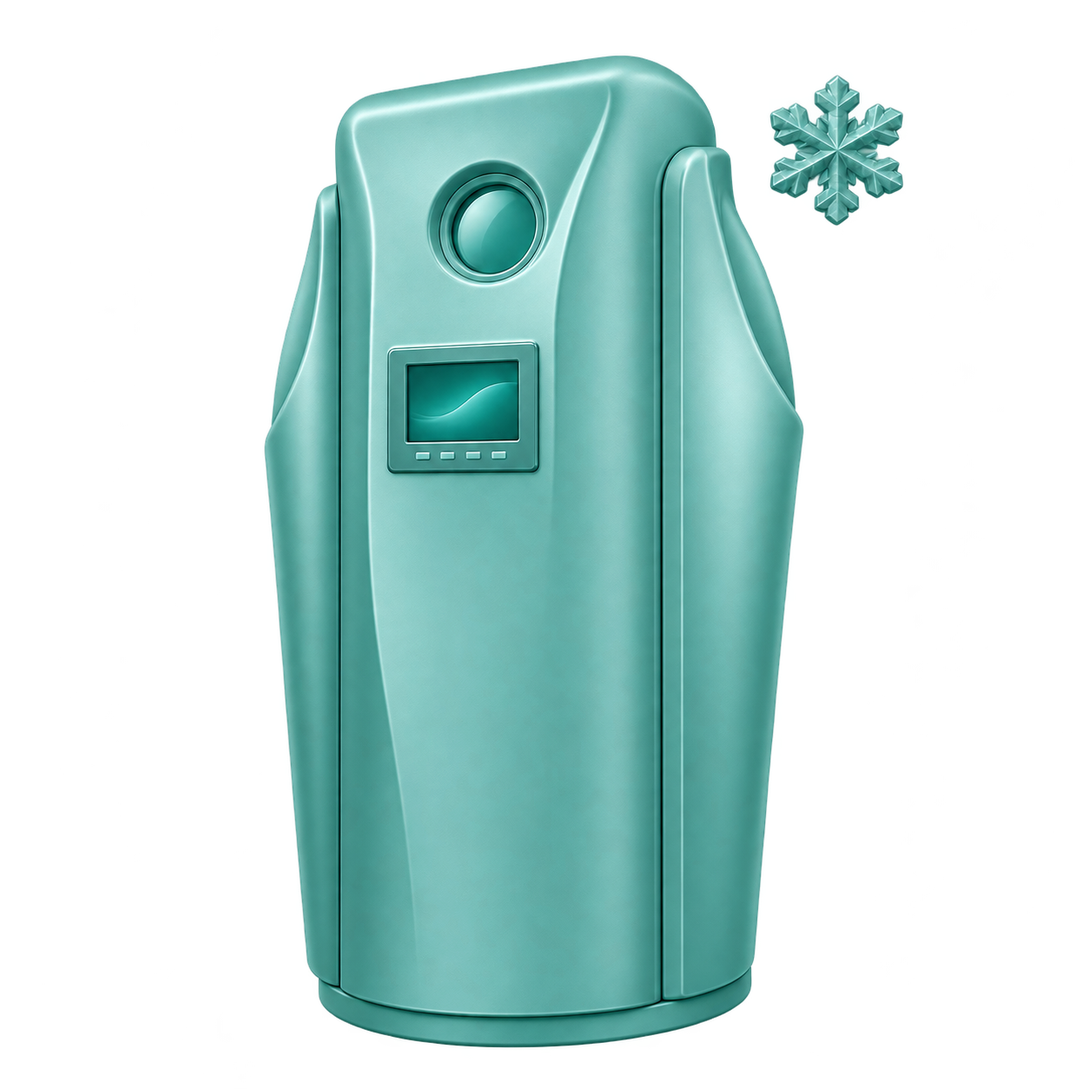
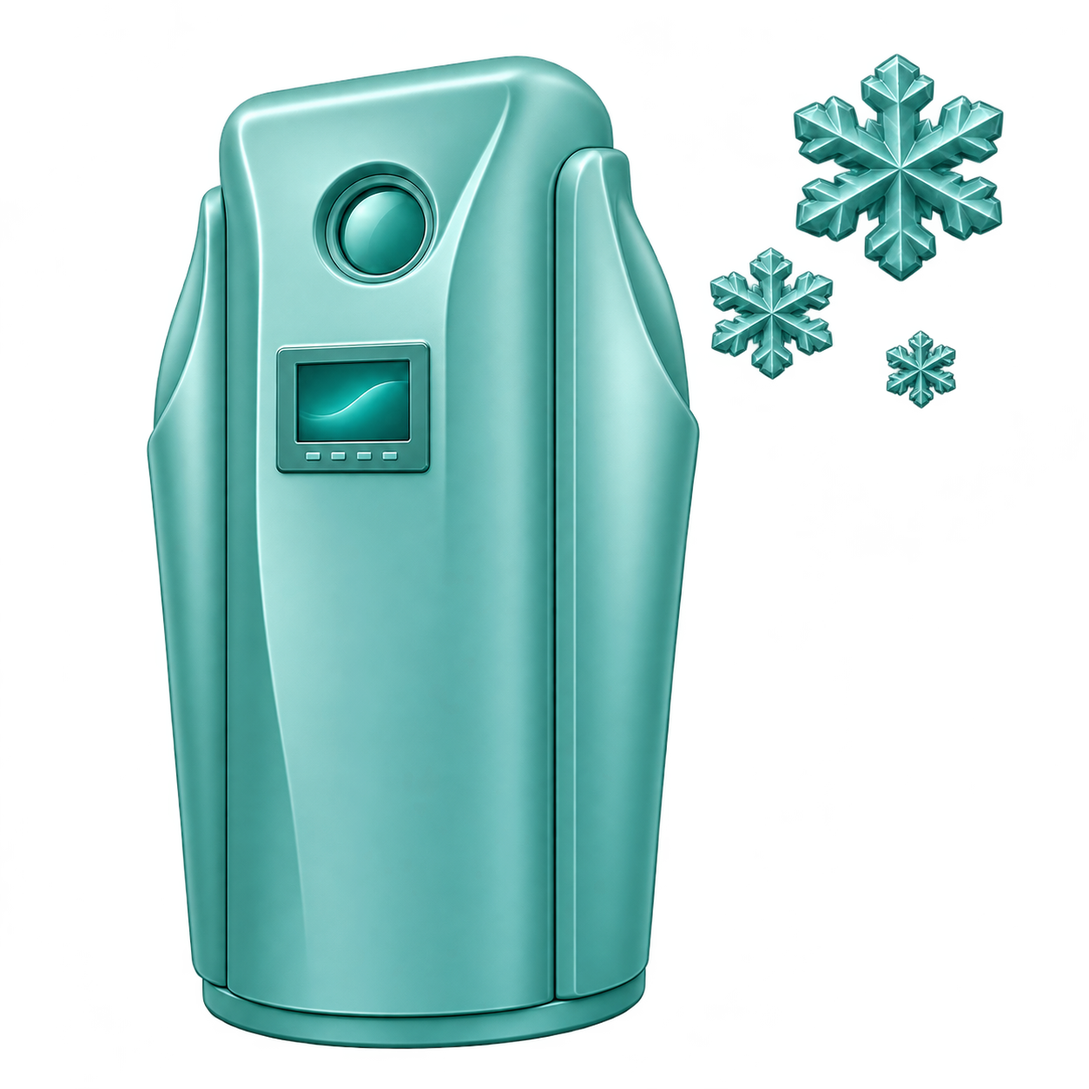
Обновление справочника: 2026-11-21 12:21

diff --git a/index.html b/index.html
@@ -1,1 +1,1 @@
-<!doctype html><html lang="ru"><head><meta charset="utf-8"><meta name="viewport" content="width=device-width,initial-scale=1"><title>Справочник услуг</title><link rel="stylesheet" href="assets/css/style.css"><link rel="icon" type="image/svg+xml" href="assets/brand/favicon.svg"><link rel="icon" type="image/png" sizes="32x32" href="assets/brand/favicon-32.png"><link rel="apple-touch-icon" sizes="180x180" href="assets/brand/apple-touch-icon.png"></head><body><a class="skip" href="#main">Перейти к содержанию</a><div class="shell"><header class="brand"><a href="index.html" aria-label="На главную"><img class="clinic-logo" src="assets/brand/cryo-clinic-official.svg" alt="КРИО КЛИНИК — Энергия и иммунитет"></a><div class="resort"><img src="assets/brand/altay-restart.jpg" alt="ALTAY RESTART — премиальный горнолыжный курорт"></div></header><main id="main"><section class="intro"><h1>Справочник услуг</h1><p class="lead">Для сотрудников всех подразделений курорта «Алтай Рестарт»: консультирование гостей и презентация услуг клиники.</p></section><section class="catalog" aria-label="Каталог процедур"><form class="search" role="search"><label for="search">Найти процедуру или аппарат</label><div class="search-field"><svg class="search-icon" viewBox="0 0 24 24" aria-hidden="true"><circle cx="10.5" cy="10.5" r="6.5"/><path d="m16 16 4.5 4.5"/></svg><input id="search" type="search" placeholder="Например, криотерапия или ICEQUEEN" autocomplete="off"><button type="button" id="clear" hidden>Сбросить</button></div></form><div class="catalog-tools"><p id="results" role="status" aria-live="polite">Откройте раздел, чтобы увидеть процедуры</p><button id="toggle-all" type="button">Раскрыть все</button></div><div id="categories"><details class="category" id="category-1"><summary><span class="category-icon" aria-hidden="true"><img class="category-art" src="assets/illustrations/cryo-capsule-square-v1.png" alt=""></span><span class="category-title"><strong>Криотерапия</strong><span>Применение низких температур для общего и местного воздействия</span></span><span class="count">3</span><span class="chevron" aria-hidden="true"></span></summary><ul class="procedures"><li data-search="Криотерапия Общая криотерапия ICEQUEEN криокапсула айсквин Криотерапия общая, 2 мин"><a href="procedures/procedure-01-01.html"><span>Общая криотерапия<small>ICEQUEEN</small></span><span class="row-status">В разработке</span></a></li><li data-search="Криотерапия Локальная криотерапия суставов  Криотерапия локальная одного сустава, 10 мин"><a href="procedures/procedure-01-02.html"><span>Локальная криотерапия суставов</span><span class="row-status">В разработке</span></a></li><li data-search="Криотерапия Аппаратный криомассаж  Криомассаж лица аппаратный, 10 мин Криомассаж волосистой части головы аппаратный, 10 мин Криомассаж лица и шеи аппаратный, 10 мин Криомассаж лица, шеи и зоны декольте аппаратный, 20 мин"><a href="procedures/procedure-01-03.html"><span>Аппаратный криомассаж</span><span class="row-status">В разработке</span></a></li></ul></details><details class="category" id="category-3" ><summary><span class="category-icon" aria-hidden="true"><img class="category-art" src="assets/illustrations/immersion-cocoon-transparent-v1.png" alt=""></span><span class="category-title"><strong>Сухая иммёрсия</strong><span>Глубокое расслабление и ощущение невесомости</span></span><span class="count">1</span><span class="chevron" aria-hidden="true"></span></summary><ul class="procedures"><li data-search="Сухая иммёрсия Сухая иммёрсия  Сухая иммёрсия, 60 мин Сухая иммёрсия, 90 мин"><a href="procedures/procedure-03-01.html"><span>Сухая иммёрсия</span></a></li></ul></details><details class="category" id="category-4" ><summary><span class="category-icon" aria-hidden="true"><svg class="category-art" viewBox="1090 30 350 300" aria-hidden="true" focusable="false"><image href="assets/illustrations/procedures-3d-transparent-v2.png" width="1448" height="1086"/></svg></span><span class="category-title"><strong>Электромагнитная стимуляция</strong><span>Стимуляция тканей на электромагнитном столе EMW MED</span></span><span class="count">1</span><span class="chevron" aria-hidden="true"></span></summary><ul class="procedures"><li data-search="Электромагнитная стимуляция Глубокая электромагнитная стимуляция EMW MED магнитный стол Глубокая электромагнитная стимуляция тканей на системе EMW MED (1 зона) Глубокая электромагнитная стимуляция тканей на системе EMW MED (2 зоны) Глубокая электромагнитная стимуляция тканей на системе EMW MED (все тело)"><a href="procedures/procedure-04-01.html"><span>Глубокая электромагнитная стимуляция</span><span class="row-status">В разработке</span></a></li></ul></details><details class="category" id="category-2"><summary><span class="category-icon" aria-hidden="true"><img class="category-art" src="assets/illustrations/barochamber-square-v1.png" alt=""></span><span class="category-title"><strong>Гипербарическая оксигенация (барокамера)</strong><span>В кислородной камере O2one</span></span><span class="count">1</span><span class="chevron" aria-hidden="true"></span></summary><ul class="procedures"><li data-search="Барокамера Барокамера O2one-H810 кислород гипербарическая оксигенация Гипербарическая оксигенация в кислородной камере o2one, 30 мин Гипербарическая оксигенация в кислородной камере o2one, 45–60 мин Гипербарическая оксигенация в кислородной камере o2one, 90 мин"><a href="procedures/procedure-02-01.html"><span>Гипербарическая оксигенация (барокамера)</span><span class="row-status">В разработке</span></a></li></ul></details><details class="category" id="category-13"><summary><span class="category-icon" aria-hidden="true"><img class="category-art" src="assets/illustrations/oxyterra-square-v1.png" alt=""></span><span class="category-title"><strong>Интервальная гипоксически-гипероксическая тренировка</strong><span>На аппарате «Окситерра»</span></span><span class="count">1</span><span class="chevron" aria-hidden="true"></span></summary><ul class="procedures"><li data-search="Интервальная гипоксически-гипероксическая тренировка Интервальная гипоксически-гипероксическая тренировка Окситерра ИГГТ дыхание дорожка Маска одноразовая для ИГГТ Интервальная гипоксически-гипероксическая тренировка на аппарате «Окситерра», 60 мин Интервальная гипоксически-гипероксическая тренировка на аппарате «Окситерра» с использованием беговой дорожки, 30-60 мин"><a href="procedures/procedure-02-02.html"><span>Интервальная гипоксически-гипероксическая тренировка<small>«Окситерра»</small></span><span class="row-status">В разработке</span></a></li></ul></details><details class="category" id="category-5"><summary><span class="category-icon" aria-hidden="true"><svg class="category-art" viewBox="15 390 350 270" aria-hidden="true" focusable="false"><image href="assets/illustrations/procedures-3d-transparent-v2.png" width="1448" height="1086"/></svg></span><span class="category-title"><strong>Водолечение и бальнеотерапия</strong><span>Ванны, гидромассаж и водные процедуры</span></span><span class="count">5</span><span class="chevron" aria-hidden="true"></span></summary><ul class="procedures"><li data-search="Водолечение и бальнеотерапия Гидромассажная ванна и добавки  Оздоровительная процедура в гидромассажной ванне, 45 мин Использование добавки для гидромассажной ванны «Прованские травы» Использование добавки для гидромассажной ванны «Кальций» Использование добавки для гидромассажной ванны «Магний» Использование добавки для гидромассажной ванны «Морская соль» Использование добавки для гидромассажной ванны «Живая вода» Использование добавки-концентрата (масла) морского магния «Талассо Магнезиум», 500 мл, 5 мин"><a href="procedures/procedure-05-01.html"><span>Гидромассажная ванна и добавки</span><span class="row-status">В разработке</span></a></li><li data-search="Водолечение и бальнеотерапия Подводный вакуумный массаж  Подводный вакуумный массаж, 10 мин"><a href="procedures/procedure-05-02.html"><span>Подводный вакуумный массаж</span><span class="row-status">В разработке</span></a></li><li data-search="Водолечение и бальнеотерапия Ванна с водородом  Ванна с атомарным водородом в «Живой воде»"><a href="procedures/procedure-05-04.html"><span>Ванна с водородом</span><span class="row-status">В разработке</span></a></li><li data-search="Водолечение и бальнеотерапия Ванна Клеопатры  Ванна Клеопатры (безинъекционная карбокситерапия)"><a href="procedures/procedure-05-05.html"><span>Ванна Клеопатры</span><span class="row-status">В разработке</span></a></li><li data-search="Водолечение и бальнеотерапия Лечебный гидромассаж в «Живой воде»  Гидромассаж лечебный в «Живой воде», 60 мин"><a href="procedures/procedure-05-06.html"><span>Лечебный гидромассаж в «Живой воде»</span><span class="row-status">В разработке</span></a></li></ul></details><details class="category" id="category-14"><summary><span class="category-icon" aria-hidden="true"><img class="category-art" src="assets/illustrations/pant-antlers-square-v1.png" alt=""></span><span class="category-title"><strong>Пантовые ванны</strong><span>«Целебная сила Алтая»</span></span><span class="count">1</span><span class="chevron" aria-hidden="true"></span></summary><ul class="procedures"><li data-search="Водолечение и бальнеотерапия Пантовая ванна «Целебная сила Алтая»  Пантовая ванна «Целебная сила Алтая»"><a href="procedures/procedure-05-03.html"><span>Пантовая ванна «Целебная сила Алтая»</span><span class="row-status">В разработке</span></a></li></ul></details><details class="category" id="category-6" ><summary><span class="category-icon" aria-hidden="true"><svg class="category-art" viewBox="395 390 280 280" aria-hidden="true" focusable="false"><image href="assets/illustrations/procedures-3d-transparent-v2.png" width="1448" height="1086"/></svg></span><span class="category-title"><strong>Ингаляционная водородотерапия</strong><span>Ингаляционные процедуры с использованием водорода</span></span><span class="count">1</span><span class="chevron" aria-hidden="true"></span></summary><ul class="procedures"><li data-search="Ингаляционная водородотерапия Ингаляционная водородотерапия маска очки Ингаляционная водородотерапия (лечение атомарным водородом), 30 мин Ингаляционная водородотерапия (лечение атомарным водородом), 60 мин Ингаляционная водородотерапия (лечение атомарным водородом), 90 мин Ингаляционная водородотерапия — очки (лечение атомарным водородом), 10–15 мин Ингаляционная водородотерапия — маска (лечение атомарным водородом), 10–15 мин"><a href="procedures/procedure-06-01.html"><span>Ингаляционная водородотерапия</span><span class="row-status">В разработке</span></a></li></ul></details><details class="category" id="category-7" ><summary><span class="category-icon" aria-hidden="true"><img class="category-art" src="assets/illustrations/mud-therapy-clean-v1.png" alt=""></span><span class="category-title"><strong>Грязелечение</strong><span>Аппликации лечебной грязи на всё тело или отдельные участки</span></span><span class="count">1</span><span class="chevron" aria-hidden="true"></span></summary><ul class="procedures"><li data-search="Грязелечение Лечебные грязевые аппликации  Воздействие лечебной грязью (общая) Воздействие лечебной грязью 1 зона (верхние или нижнее конечности) Воздействие лечебной грязью 2 зоны Воздействие лечебной грязью зона лица"><a href="procedures/procedure-07-01.html"><span>Лечебные грязевые аппликации</span><span class="row-status">В разработке</span></a></li></ul></details><details class="category" id="category-8" ><summary><span class="category-icon" aria-hidden="true"><svg class="category-art" viewBox="1080 390 355 280" aria-hidden="true" focusable="false"><image href="assets/illustrations/procedures-3d-transparent-v2.png" width="1448" height="1086"/></svg></span><span class="category-title"><strong>Рефлексотерапия</strong><span>Иглорефлексотерапия и фармакопунктура</span></span><span class="count">6</span><span class="chevron" aria-hidden="true"></span></summary><ul class="procedures"><li data-search="Рефлексотерапия Акупунктурный лифтинг лица  Акупунктурный лифтинг лица"><a href="procedures/procedure-08-01.html"><span>Акупунктурный лифтинг лица</span><span class="row-status">В разработке</span></a></li><li data-search="Рефлексотерапия Корпоральная иглорефлексотерапия  Классическая корпоральная иглорефлексотерапия (КИТ)"><a href="procedures/procedure-08-02.html"><span>Корпоральная иглорефлексотерапия</span><span class="row-status">В разработке</span></a></li><li data-search="Рефлексотерапия Аурикулярная иглорефлексотерапия  Аурикулярная иглорефлексотерапия (АИТ) Аурикулярная иглорефлексотерапия пролонгированная (АИТ)"><a href="procedures/procedure-08-03.html"><span>Аурикулярная иглорефлексотерапия</span><span class="row-status">В разработке</span></a></li><li data-search="Рефлексотерапия Рефлексотерапия с препаратом Лаеннек  Рефлексотерапия при заболеваниях печени, желчевыводящих путей с препаратом Лаеннек (2,0 мл) Рефлексотерапия при заболеваниях печени, желчевыводящих путей с препаратом Лаеннек (4,0 мл)"><a href="procedures/procedure-08-04.html"><span>Рефлексотерапия с препаратом Лаеннек</span><span class="row-status">В разработке</span></a></li><li data-search="Рефлексотерапия Фармакопунктура с Гиалрепайр  Воздействие на точки акупунктуры другими факторами. Фармакопунктура с Гиалрепайр 10 (биорепарант) (5,0 мл) Воздействие на точки акупунктуры другими факторами. Фармакопунктура с Гиалрепайр 08 (биорепарант) (1,5 мл) Воздействие на точки акупунктуры другими факторами. Фармакопунктура с Гиалрепайр 08 (биорепарант) (5,0 мл) Воздействие на точки акупунктуры другими факторами. Фармакопунктура с Гиалрепайр 05 (биорепарант) (5,0 мл) Воздействие на точки акупунктуры другими факторами. Фармакопунктура с Гиалрепайр 02 (биорепарант) (1,5 мл)"><a href="procedures/procedure-08-05.html"><span>Фармакопунктура с Гиалрепайр</span><span class="row-status">В разработке</span></a></li><li data-search="Рефлексотерапия Рефлексотерапия при заболеваниях периферической нервной системы  Рефлексотерапия при заболеваниях периферической нервной системы"><a href="procedures/procedure-08-06.html"><span>Рефлексотерапия при заболеваниях периферической нервной системы</span><span class="row-status">В разработке</span></a></li></ul></details><details class="category" id="category-9" ><summary><span class="category-icon" aria-hidden="true"><svg class="category-art" viewBox="10 715 350 285" aria-hidden="true" focusable="false"><image href="assets/illustrations/procedures-3d-transparent-v2.png" width="1448" height="1086"/></svg></span><span class="category-title"><strong>Медицинский массаж</strong><span>Лечебное воздействие на мышцы и мягкие ткани</span></span><span class="count">8</span><span class="chevron" aria-hidden="true"></span></summary><ul class="procedures"><li data-search="Медицинский массаж Общий медицинский массаж  Общий медицинский массаж (комплексная проработка мышц туловища и конечностей с акцентом на области мышечно-тонических нарушений и болевого синдрома), 60/90 мин"><a href="procedures/procedure-09-01.html"><span>Общий медицинский массаж</span><span class="row-status">В разработке</span></a></li><li data-search="Медицинский массаж Сегментарно-локальный массаж  Сегментарно-локальный медицинский массаж (дифференцированная работа с выбранной областью: шейно-воротниковой, пояснично-крестцовой, верхними конечностями, ягодичной областью и нижними конечностями — стопами, голенями, бёдрами), 30/45/60 мин"><a href="procedures/procedure-09-02.html"><span>Сегментарно-локальный массаж</span><span class="row-status">В разработке</span></a></li><li data-search="Медицинский массаж Миофасциальный массаж  Миофасциальный массаж (проработка мышечно-фасциальных структур и триггерных зон при миофасциальном болевом синдроме и ограничении подвижности), 45/60 мин"><a href="procedures/procedure-09-03.html"><span>Миофасциальный массаж</span><span class="row-status">В разработке</span></a></li><li data-search="Медицинский массаж Точечный массаж  Точечный массаж (дозированное ручное воздействие на отдельные точки и локальные зоны мышечно-тонических нарушений; интенсивность и последовательность подбираются индивидуально), 30/45 мин"><a href="procedures/procedure-09-04.html"><span>Точечный массаж</span><span class="row-status">В разработке</span></a></li><li data-search="Медицинский массаж Висцеральный массаж  Висцеральный массаж (дифференцированное ручное воздействие через переднюю брюшную стенку на ткани живота и области проекции внутренних органов), 30 мин"><a href="procedures/procedure-09-05.html"><span>Висцеральный массаж</span><span class="row-status">В разработке</span></a></li><li data-search="Медицинский массаж Медицинский лимфодренажный массаж  Медицинский лимфодренажный массаж (специализированная техника для поддержки лимфооттока при лимфатических отёках; после перелётов и длительной неподвижности — с учётом установленной причины отёчности), 60 мин"><a href="procedures/procedure-09-06.html"><span>Медицинский лимфодренажный массаж</span><span class="row-status">В разработке</span></a></li><li data-search="Медицинский массаж Массаж после травм и операций  Массаж в рамках восстановления после травм и операций (дифференцированная работа с мышцами и околосуставными тканями при остаточном отёке, изменении мышечного тонуса и ограничении движений, с учётом стадии восстановления), 30/45/60 мин"><a href="procedures/procedure-09-07.html"><span>Массаж после травм и операций</span><span class="row-status">В разработке</span></a></li><li data-search="Медицинский массаж Массаж в постинсультной реабилитации  Медицинский массаж в рамках постинсультной реабилитации (работа с изменённым мышечным тонусом, тактильная и проприоцептивная стимуляция — воздействие на ощущение положения и движения конечности; отдельная проработка пальцев, кисти и конечности в подготовке к двигательным упражнениям), 30/45/60 мин"><a href="procedures/procedure-09-08.html"><span>Массаж в постинсультной реабилитации</span><span class="row-status">В разработке</span></a></li></ul></details><details class="category" id="category-11"><summary><span class="category-icon" aria-hidden="true"><svg class="category-art" viewBox="1105 720 325 285" aria-hidden="true" focusable="false"><image href="assets/illustrations/procedures-3d-transparent-v2.png" width="1448" height="1086"/></svg></span><span class="category-title"><strong>Диагностика</strong><span>Биоимпедансометрия и комплексная диагностика</span></span><span class="count">3</span><span class="chevron" aria-hidden="true"></span></summary><ul class="procedures"><li data-search="Диагностика Биоимпедансометрия Биомпедансометрия ACCUNIQ BC720"><a href="procedures/procedure-11-01.html"><span>Биоимпедансометрия</span><span class="row-status">В разработке</span></a></li><li data-search="Диагностика Биоимпедансный анализ состава тела с консультацией врача Биомпедансный ACCUNIQ BC720"><a href="procedures/procedure-11-02.html"><span>Биоимпедансный анализ состава тела с консультацией врача</span><span class="row-status">В разработке</span></a></li><li data-search="Диагностика Комплексная диагностика функционального состояния организма  Комплексная диагностика функционального состояния организма"><a href="procedures/procedure-12-01.html"><span>Комплексная диагностика функционального состояния организма</span><span class="row-status">В разработке</span></a></li></ul></details><details class="category" id="category-10" ><summary><span class="category-icon" aria-hidden="true"><svg class="category-art" viewBox="380 710 345 295" aria-hidden="true" focusable="false"><image href="assets/illustrations/procedures-3d-transparent-v2.png" width="1448" height="1086"/></svg></span><span class="category-title"><strong>Консультации врачей</strong><span>Приёмы специалистов клиники</span></span><span class="count">6</span><span class="chevron" aria-hidden="true"></span></summary><ul class="procedures"><li data-search="Консультации врачей Превентивная медицина  Первичная консультация по вопросам превентивной медицины (45 мин) Повторная консультация по вопросам превентивной медицины (30 мин)"><a href="procedures/procedure-10-01.html"><span>Превентивная медицина</span><span class="row-status">В разработке</span></a></li><li data-search="Консультации врачей Врач по лечебной физкультуре ЛФК Прием (осмотр, консультация) врача по лечебной физкультуре (30 мин)"><a href="procedures/procedure-10-02.html"><span>Врач по лечебной физкультуре</span><span class="row-status">В разработке</span></a></li><li data-search="Консультации врачей Врач-физиотерапевт  Прием (осмотр, консультация) врача-физиотерапевта (30 мин)"><a href="procedures/procedure-10-03.html"><span>Врач-физиотерапевт</span><span class="row-status">В разработке</span></a></li><li data-search="Консультации врачей Врач-терапевт  Первичный прием (осмотр, консультация) врача-терапевта (45 мин) Повторный прием (осмотр, консультация) врача-терапевта (30 мин)"><a href="procedures/procedure-10-04.html"><span>Врач-терапевт</span><span class="row-status">В разработке</span></a></li><li data-search="Консультации врачей Врач-невролог  Первичный прием (осмотр, консультация) врача-невролога (45 мин) Повторный прием (осмотр, консультация) врача-невролога (30 мин)"><a href="procedures/procedure-10-05.html"><span>Врач-невролог</span><span class="row-status">В разработке</span></a></li><li data-search="Консультации врачей Врач-рефлексотерапевт  Первичный прием (осмотр, консультация) врача-рефлексотерапевта (45 мин) Повторный прием (осмотр, консультация) врача-рефлексотерапевта (30 мин)"><a href="procedures/procedure-10-06.html"><span>Врач-рефлексотерапевт</span><span class="row-status">В разработке</span></a></li></ul></details></div><div id="empty" class="empty" hidden><h3>Ничего не найдено</h3><p>Попробуйте название процедуры, аппарата или направления.</p></div><noscript><p>Для поиска включите JavaScript. Разделы и страницы доступны и без него.</p></noscript><p class="catalog-note">Учебные материалы готовятся. Доступность процедур уточняйте в клинике.</p></section></main><footer><span>Крио Клиник · Алтай Рестарт</span></footer></div><script src="assets/js/catalog.js"></script></body></html>
+<!doctype html><html lang="ru"><head><meta charset="utf-8"><meta name="viewport" content="width=device-width,initial-scale=1"><title>Справочник услуг</title><link rel="stylesheet" href="assets/css/style.css"><link rel="icon" type="image/svg+xml" href="assets/brand/favicon.svg"><link rel="icon" type="image/png" sizes="32x32" href="assets/brand/favicon-32.png"><link rel="apple-touch-icon" sizes="180x180" href="assets/brand/apple-touch-icon.png"></head><body><a class="skip" href="#main">Перейти к содержанию</a><div class="shell"><header class="brand"><a href="index.html" aria-label="На главную"><img class="clinic-logo" src="assets/brand/cryo-clinic-official.svg" alt="КРИО КЛИНИК — Энергия и иммунитет"></a><div class="resort"><img src="assets/brand/altay-restart.jpg" alt="ALTAY RESTART — премиальный горнолыжный курорт"></div></header><main id="main"><section class="intro"><h1>Справочник услуг</h1><p class="lead">Для сотрудников всех подразделений курорта «Алтай Рестарт»: консультирование гостей и презентация услуг клиники.</p></section><section class="catalog" aria-label="Каталог процедур"><form class="search" role="search"><label for="search">Найти процедуру или аппарат</label><div class="search-field"><svg class="search-icon" viewBox="0 0 24 24" aria-hidden="true"><circle cx="10.5" cy="10.5" r="6.5"/><path d="m16 16 4.5 4.5"/></svg><input id="search" type="search" placeholder="Например, криотерапия или ICEQUEEN" autocomplete="off"><button type="button" id="clear" hidden>Сбросить</button></div></form><div class="catalog-tools"><p id="results" role="status" aria-live="polite">Откройте раздел, чтобы увидеть процедуры</p><button id="toggle-all" type="button">Раскрыть все</button></div><div id="categories"><details class="category" id="category-1"><summary><span class="category-icon" aria-hidden="true"><img class="category-art" src="assets/illustrations/cryo-capsule-square-v1.png?v=20261121-3" alt=""></span><span class="category-title"><strong>Криотерапия</strong><span>Применение низких температур для общего и местного воздействия</span></span><span class="count">3</span><span class="chevron" aria-hidden="true"></span></summary><ul class="procedures"><li data-search="Криотерапия Общая криотерапия ICEQUEEN криокапсула айсквин Криотерапия общая, 2 мин"><a href="procedures/procedure-01-01.html"><span>Общая криотерапия<small>ICEQUEEN</small></span><span class="row-status">В разработке</span></a></li><li data-search="Криотерапия Локальная криотерапия суставов  Криотерапия локальная одного сустава, 10 мин"><a href="procedures/procedure-01-02.html"><span>Локальная криотерапия суставов</span><span class="row-status">В разработке</span></a></li><li data-search="Криотерапия Аппаратный криомассаж  Криомассаж лица аппаратный, 10 мин Криомассаж волосистой части головы аппаратный, 10 мин Криомассаж лица и шеи аппаратный, 10 мин Криомассаж лица, шеи и зоны декольте аппаратный, 20 мин"><a href="procedures/procedure-01-03.html"><span>Аппаратный криомассаж</span><span class="row-status">В разработке</span></a></li></ul></details><details class="category" id="category-3" ><summary><span class="category-icon" aria-hidden="true"><img class="category-art" src="assets/illustrations/immersion-cocoon-transparent-v1.png" alt=""></span><span class="category-title"><strong>Сухая иммёрсия</strong><span>Глубокое расслабление и ощущение невесомости</span></span><span class="count">1</span><span class="chevron" aria-hidden="true"></span></summary><ul class="procedures"><li data-search="Сухая иммёрсия Сухая иммёрсия  Сухая иммёрсия, 60 мин Сухая иммёрсия, 90 мин"><a href="procedures/procedure-03-01.html"><span>Сухая иммёрсия</span></a></li></ul></details><details class="category" id="category-4" ><summary><span class="category-icon" aria-hidden="true"><svg class="category-art" viewBox="1090 30 350 300" aria-hidden="true" focusable="false"><image href="assets/illustrations/procedures-3d-transparent-v2.png" width="1448" height="1086"/></svg></span><span class="category-title"><strong>Электромагнитная стимуляция</strong><span>Стимуляция тканей на электромагнитном столе EMW MED</span></span><span class="count">1</span><span class="chevron" aria-hidden="true"></span></summary><ul class="procedures"><li data-search="Электромагнитная стимуляция Глубокая электромагнитная стимуляция EMW MED магнитный стол Глубокая электромагнитная стимуляция тканей на системе EMW MED (1 зона) Глубокая электромагнитная стимуляция тканей на системе EMW MED (2 зоны) Глубокая электромагнитная стимуляция тканей на системе EMW MED (все тело)"><a href="procedures/procedure-04-01.html"><span>Глубокая электромагнитная стимуляция</span><span class="row-status">В разработке</span></a></li></ul></details><details class="category" id="category-2"><summary><span class="category-icon" aria-hidden="true"><img class="category-art" src="assets/illustrations/barochamber-square-v1.png?v=20261121-3" alt=""></span><span class="category-title"><strong>Гипербарическая оксигенация (барокамера)</strong><span>В кислородной камере O2one</span></span><span class="count">1</span><span class="chevron" aria-hidden="true"></span></summary><ul class="procedures"><li data-search="Барокамера Барокамера O2one-H810 кислород гипербарическая оксигенация Гипербарическая оксигенация в кислородной камере o2one, 30 мин Гипербарическая оксигенация в кислородной камере o2one, 45–60 мин Гипербарическая оксигенация в кислородной камере o2one, 90 мин"><a href="procedures/procedure-02-01.html"><span>Гипербарическая оксигенация (барокамера)</span><span class="row-status">В разработке</span></a></li></ul></details><details class="category" id="category-13"><summary><span class="category-icon" aria-hidden="true"><img class="category-art" src="assets/illustrations/oxyterra-square-v1.png" alt=""></span><span class="category-title"><strong>Интервальная гипоксически-гипероксическая тренировка</strong><span>На аппарате «Окситерра»</span></span><span class="count">1</span><span class="chevron" aria-hidden="true"></span></summary><ul class="procedures"><li data-search="Интервальная гипоксически-гипероксическая тренировка Интервальная гипоксически-гипероксическая тренировка Окситерра ИГГТ дыхание дорожка Маска одноразовая для ИГГТ Интервальная гипоксически-гипероксическая тренировка на аппарате «Окситерра», 60 мин Интервальная гипоксически-гипероксическая тренировка на аппарате «Окситерра» с использованием беговой дорожки, 30-60 мин"><a href="procedures/procedure-02-02.html"><span>Интервальная гипоксически-гипероксическая тренировка<small>«Окситерра»</small></span><span class="row-status">В разработке</span></a></li></ul></details><details class="category" id="category-5"><summary><span class="category-icon" aria-hidden="true"><img class="category-art" src="assets/illustrations/hydro-pressure-square-v1.png" alt=""></span><span class="category-title"><strong>Водолечение и бальнеотерапия</strong><span>Ванны, гидромассаж и водные процедуры</span></span><span class="count">5</span><span class="chevron" aria-hidden="true"></span></summary><ul class="procedures"><li data-search="Водолечение и бальнеотерапия Гидромассажная ванна и добавки  Оздоровительная процедура в гидромассажной ванне, 45 мин Использование добавки для гидромассажной ванны «Прованские травы» Использование добавки для гидромассажной ванны «Кальций» Использование добавки для гидромассажной ванны «Магний» Использование добавки для гидромассажной ванны «Морская соль» Использование добавки для гидромассажной ванны «Живая вода» Использование добавки-концентрата (масла) морского магния «Талассо Магнезиум», 500 мл, 5 мин"><a href="procedures/procedure-05-01.html"><span>Гидромассажная ванна и добавки</span><span class="row-status">В разработке</span></a></li><li data-search="Водолечение и бальнеотерапия Подводный вакуумный массаж  Подводный вакуумный массаж, 10 мин"><a href="procedures/procedure-05-02.html"><span>Подводный вакуумный массаж</span><span class="row-status">В разработке</span></a></li><li data-search="Водолечение и бальнеотерапия Ванна с водородом  Ванна с атомарным водородом в «Живой воде»"><a href="procedures/procedure-05-04.html"><span>Ванна с водородом</span><span class="row-status">В разработке</span></a></li><li data-search="Водолечение и бальнеотерапия Ванна Клеопатры  Ванна Клеопатры (безинъекционная карбокситерапия)"><a href="procedures/procedure-05-05.html"><span>Ванна Клеопатры</span><span class="row-status">В разработке</span></a></li><li data-search="Водолечение и бальнеотерапия Лечебный гидромассаж в «Живой воде»  Гидромассаж лечебный в «Живой воде», 60 мин"><a href="procedures/procedure-05-06.html"><span>Лечебный гидромассаж в «Живой воде»</span><span class="row-status">В разработке</span></a></li></ul></details><details class="category" id="category-14"><summary><span class="category-icon" aria-hidden="true"><img class="category-art" src="assets/illustrations/pant-antlers-square-v1.png" alt=""></span><span class="category-title"><strong>Пантовые ванны</strong><span>«Целебная сила Алтая»</span></span><span class="count">1</span><span class="chevron" aria-hidden="true"></span></summary><ul class="procedures"><li data-search="Водолечение и бальнеотерапия Пантовая ванна «Целебная сила Алтая»  Пантовая ванна «Целебная сила Алтая»"><a href="procedures/procedure-05-03.html"><span>Пантовая ванна «Целебная сила Алтая»</span><span class="row-status">В разработке</span></a></li></ul></details><details class="category" id="category-6" ><summary><span class="category-icon" aria-hidden="true"><svg class="category-art" viewBox="395 390 280 280" aria-hidden="true" focusable="false"><image href="assets/illustrations/procedures-3d-transparent-v2.png" width="1448" height="1086"/></svg></span><span class="category-title"><strong>Ингаляционная водородотерапия</strong><span>Ингаляционные процедуры с использованием водорода</span></span><span class="count">1</span><span class="chevron" aria-hidden="true"></span></summary><ul class="procedures"><li data-search="Ингаляционная водородотерапия Ингаляционная водородотерапия маска очки Ингаляционная водородотерапия (лечение атомарным водородом), 30 мин Ингаляционная водородотерапия (лечение атомарным водородом), 60 мин Ингаляционная водородотерапия (лечение атомарным водородом), 90 мин Ингаляционная водородотерапия — очки (лечение атомарным водородом), 10–15 мин Ингаляционная водородотерапия — маска (лечение атомарным водородом), 10–15 мин"><a href="procedures/procedure-06-01.html"><span>Ингаляционная водородотерапия</span><span class="row-status">В разработке</span></a></li></ul></details><details class="category" id="category-7" ><summary><span class="category-icon" aria-hidden="true"><img class="category-art" src="assets/illustrations/mud-therapy-clean-v1.png?v=20261121-3" alt=""></span><span class="category-title"><strong>Грязелечение</strong><span>Аппликации лечебной грязи на всё тело или отдельные участки</span></span><span class="count">1</span><span class="chevron" aria-hidden="true"></span></summary><ul class="procedures"><li data-search="Грязелечение Лечебные грязевые аппликации  Воздействие лечебной грязью (общая) Воздействие лечебной грязью 1 зона (верхние или нижнее конечности) Воздействие лечебной грязью 2 зоны Воздействие лечебной грязью зона лица"><a href="procedures/procedure-07-01.html"><span>Лечебные грязевые аппликации</span><span class="row-status">В разработке</span></a></li></ul></details><details class="category" id="category-8" ><summary><span class="category-icon" aria-hidden="true"><svg class="category-art" viewBox="1080 390 355 280" aria-hidden="true" focusable="false"><image href="assets/illustrations/procedures-3d-transparent-v2.png" width="1448" height="1086"/></svg></span><span class="category-title"><strong>Рефлексотерапия</strong><span>Иглорефлексотерапия и фармакопунктура</span></span><span class="count">6</span><span class="chevron" aria-hidden="true"></span></summary><ul class="procedures"><li data-search="Рефлексотерапия Акупунктурный лифтинг лица  Акупунктурный лифтинг лица"><a href="procedures/procedure-08-01.html"><span>Акупунктурный лифтинг лица</span><span class="row-status">В разработке</span></a></li><li data-search="Рефлексотерапия Корпоральная иглорефлексотерапия  Классическая корпоральная иглорефлексотерапия (КИТ)"><a href="procedures/procedure-08-02.html"><span>Корпоральная иглорефлексотерапия</span><span class="row-status">В разработке</span></a></li><li data-search="Рефлексотерапия Аурикулярная иглорефлексотерапия  Аурикулярная иглорефлексотерапия (АИТ) Аурикулярная иглорефлексотерапия пролонгированная (АИТ)"><a href="procedures/procedure-08-03.html"><span>Аурикулярная иглорефлексотерапия</span><span class="row-status">В разработке</span></a></li><li data-search="Рефлексотерапия Рефлексотерапия с препаратом Лаеннек  Рефлексотерапия при заболеваниях печени, желчевыводящих путей с препаратом Лаеннек (2,0 мл) Рефлексотерапия при заболеваниях печени, желчевыводящих путей с препаратом Лаеннек (4,0 мл)"><a href="procedures/procedure-08-04.html"><span>Рефлексотерапия с препаратом Лаеннек</span><span class="row-status">В разработке</span></a></li><li data-search="Рефлексотерапия Фармакопунктура с Гиалрепайр  Воздействие на точки акупунктуры другими факторами. Фармакопунктура с Гиалрепайр 10 (биорепарант) (5,0 мл) Воздействие на точки акупунктуры другими факторами. Фармакопунктура с Гиалрепайр 08 (биорепарант) (1,5 мл) Воздействие на точки акупунктуры другими факторами. Фармакопунктура с Гиалрепайр 08 (биорепарант) (5,0 мл) Воздействие на точки акупунктуры другими факторами. Фармакопунктура с Гиалрепайр 05 (биорепарант) (5,0 мл) Воздействие на точки акупунктуры другими факторами. Фармакопунктура с Гиалрепайр 02 (биорепарант) (1,5 мл)"><a href="procedures/procedure-08-05.html"><span>Фармакопунктура с Гиалрепайр</span><span class="row-status">В разработке</span></a></li><li data-search="Рефлексотерапия Рефлексотерапия при заболеваниях периферической нервной системы  Рефлексотерапия при заболеваниях периферической нервной системы"><a href="procedures/procedure-08-06.html"><span>Рефлексотерапия при заболеваниях периферической нервной системы</span><span class="row-status">В разработке</span></a></li></ul></details><details class="category" id="category-9" ><summary><span class="category-icon" aria-hidden="true"><svg class="category-art" viewBox="10 715 350 285" aria-hidden="true" focusable="false"><image href="assets/illustrations/procedures-3d-transparent-v2.png" width="1448" height="1086"/></svg></span><span class="category-title"><strong>Медицинский массаж</strong><span>Лечебное воздействие на мышцы и мягкие ткани</span></span><span class="count">8</span><span class="chevron" aria-hidden="true"></span></summary><ul class="procedures"><li data-search="Медицинский массаж Общий медицинский массаж  Общий медицинский массаж (комплексная проработка мышц туловища и конечностей с акцентом на области мышечно-тонических нарушений и болевого синдрома), 60/90 мин"><a href="procedures/procedure-09-01.html"><span>Общий медицинский массаж</span><span class="row-status">В разработке</span></a></li><li data-search="Медицинский массаж Сегментарно-локальный массаж  Сегментарно-локальный медицинский массаж (дифференцированная работа с выбранной областью: шейно-воротниковой, пояснично-крестцовой, верхними конечностями, ягодичной областью и нижними конечностями — стопами, голенями, бёдрами), 30/45/60 мин"><a href="procedures/procedure-09-02.html"><span>Сегментарно-локальный массаж</span><span class="row-status">В разработке</span></a></li><li data-search="Медицинский массаж Миофасциальный массаж  Миофасциальный массаж (проработка мышечно-фасциальных структур и триггерных зон при миофасциальном болевом синдроме и ограничении подвижности), 45/60 мин"><a href="procedures/procedure-09-03.html"><span>Миофасциальный массаж</span><span class="row-status">В разработке</span></a></li><li data-search="Медицинский массаж Точечный массаж  Точечный массаж (дозированное ручное воздействие на отдельные точки и локальные зоны мышечно-тонических нарушений; интенсивность и последовательность подбираются индивидуально), 30/45 мин"><a href="procedures/procedure-09-04.html"><span>Точечный массаж</span><span class="row-status">В разработке</span></a></li><li data-search="Медицинский массаж Висцеральный массаж  Висцеральный массаж (дифференцированное ручное воздействие через переднюю брюшную стенку на ткани живота и области проекции внутренних органов), 30 мин"><a href="procedures/procedure-09-05.html"><span>Висцеральный массаж</span><span class="row-status">В разработке</span></a></li><li data-search="Медицинский массаж Медицинский лимфодренажный массаж  Медицинский лимфодренажный массаж (специализированная техника для поддержки лимфооттока при лимфатических отёках; после перелётов и длительной неподвижности — с учётом установленной причины отёчности), 60 мин"><a href="procedures/procedure-09-06.html"><span>Медицинский лимфодренажный массаж</span><span class="row-status">В разработке</span></a></li><li data-search="Медицинский массаж Массаж после травм и операций  Массаж в рамках восстановления после травм и операций (дифференцированная работа с мышцами и околосуставными тканями при остаточном отёке, изменении мышечного тонуса и ограничении движений, с учётом стадии восстановления), 30/45/60 мин"><a href="procedures/procedure-09-07.html"><span>Массаж после травм и операций</span><span class="row-status">В разработке</span></a></li><li data-search="Медицинский массаж Массаж в постинсультной реабилитации  Медицинский массаж в рамках постинсультной реабилитации (работа с изменённым мышечным тонусом, тактильная и проприоцептивная стимуляция — воздействие на ощущение положения и движения конечности; отдельная проработка пальцев, кисти и конечности в подготовке к двигательным упражнениям), 30/45/60 мин"><a href="procedures/procedure-09-08.html"><span>Массаж в постинсультной реабилитации</span><span class="row-status">В разработке</span></a></li></ul></details><details class="category" id="category-11"><summary><span class="category-icon" aria-hidden="true"><svg class="category-art" viewBox="1105 720 325 285" aria-hidden="true" focusable="false"><image href="assets/illustrations/procedures-3d-transparent-v2.png" width="1448" height="1086"/></svg></span><span class="category-title"><strong>Диагностика</strong><span>Биоимпедансометрия и комплексная диагностика</span></span><span class="count">3</span><span class="chevron" aria-hidden="true"></span></summary><ul class="procedures"><li data-search="Диагностика Биоимпедансометрия Биомпедансометрия ACCUNIQ BC720"><a href="procedures/procedure-11-01.html"><span>Биоимпедансометрия</span><span class="row-status">В разработке</span></a></li><li data-search="Диагностика Биоимпедансный анализ состава тела с консультацией врача Биомпедансный ACCUNIQ BC720"><a href="procedures/procedure-11-02.html"><span>Биоимпедансный анализ состава тела с консультацией врача</span><span class="row-status">В разработке</span></a></li><li data-search="Диагностика Комплексная диагностика функционального состояния организма  Комплексная диагностика функционального состояния организма"><a href="procedures/procedure-12-01.html"><span>Комплексная диагностика функционального состояния организма</span><span class="row-status">В разработке</span></a></li></ul></details><details class="category" id="category-10" ><summary><span class="category-icon" aria-hidden="true"><svg class="category-art" viewBox="380 710 345 295" aria-hidden="true" focusable="false"><image href="assets/illustrations/procedures-3d-transparent-v2.png" width="1448" height="1086"/></svg></span><span class="category-title"><strong>Консультации врачей</strong><span>Приёмы специалистов клиники</span></span><span class="count">6</span><span class="chevron" aria-hidden="true"></span></summary><ul class="procedures"><li data-search="Консультации врачей Превентивная медицина  Первичная консультация по вопросам превентивной медицины (45 мин) Повторная консультация по вопросам превентивной медицины (30 мин)"><a href="procedures/procedure-10-01.html"><span>Превентивная медицина</span><span class="row-status">В разработке</span></a></li><li data-search="Консультации врачей Врач по лечебной физкультуре ЛФК Прием (осмотр, консультация) врача по лечебной физкультуре (30 мин)"><a href="procedures/procedure-10-02.html"><span>Врач по лечебной физкультуре</span><span class="row-status">В разработке</span></a></li><li data-search="Консультации врачей Врач-физиотерапевт  Прием (осмотр, консультация) врача-физиотерапевта (30 мин)"><a href="procedures/procedure-10-03.html"><span>Врач-физиотерапевт</span><span class="row-status">В разработке</span></a></li><li data-search="Консультации врачей Врач-терапевт  Первичный прием (осмотр, консультация) врача-терапевта (45 мин) Повторный прием (осмотр, консультация) врача-терапевта (30 мин)"><a href="procedures/procedure-10-04.html"><span>Врач-терапевт</span><span class="row-status">В разработке</span></a></li><li data-search="Консультации врачей Врач-невролог  Первичный прием (осмотр, консультация) врача-невролога (45 мин) Повторный прием (осмотр, консультация) врача-невролога (30 мин)"><a href="procedures/procedure-10-05.html"><span>Врач-невролог</span><span class="row-status">В разработке</span></a></li><li data-search="Консультации врачей Врач-рефлексотерапевт  Первичный прием (осмотр, консультация) врача-рефлексотерапевта (45 мин) Повторный прием (осмотр, консультация) врача-рефлексотерапевта (30 мин)"><a href="procedures/procedure-10-06.html"><span>Врач-рефлексотерапевт</span><span class="row-status">В разработке</span></a></li></ul></details></div><div id="empty" class="empty" hidden><h3>Ничего не найдено</h3><p>Попробуйте название процедуры, аппарата или направления.</p></div><noscript><p>Для поиска включите JavaScript. Разделы и страницы доступны и без него.</p></noscript><p class="catalog-note">Учебные материалы готовятся. Доступность процедур уточняйте в клинике.</p></section></main><footer><span>Крио Клиник · Алтай Рестарт</span></footer></div><script src="assets/js/catalog.js"></script></body></html>
